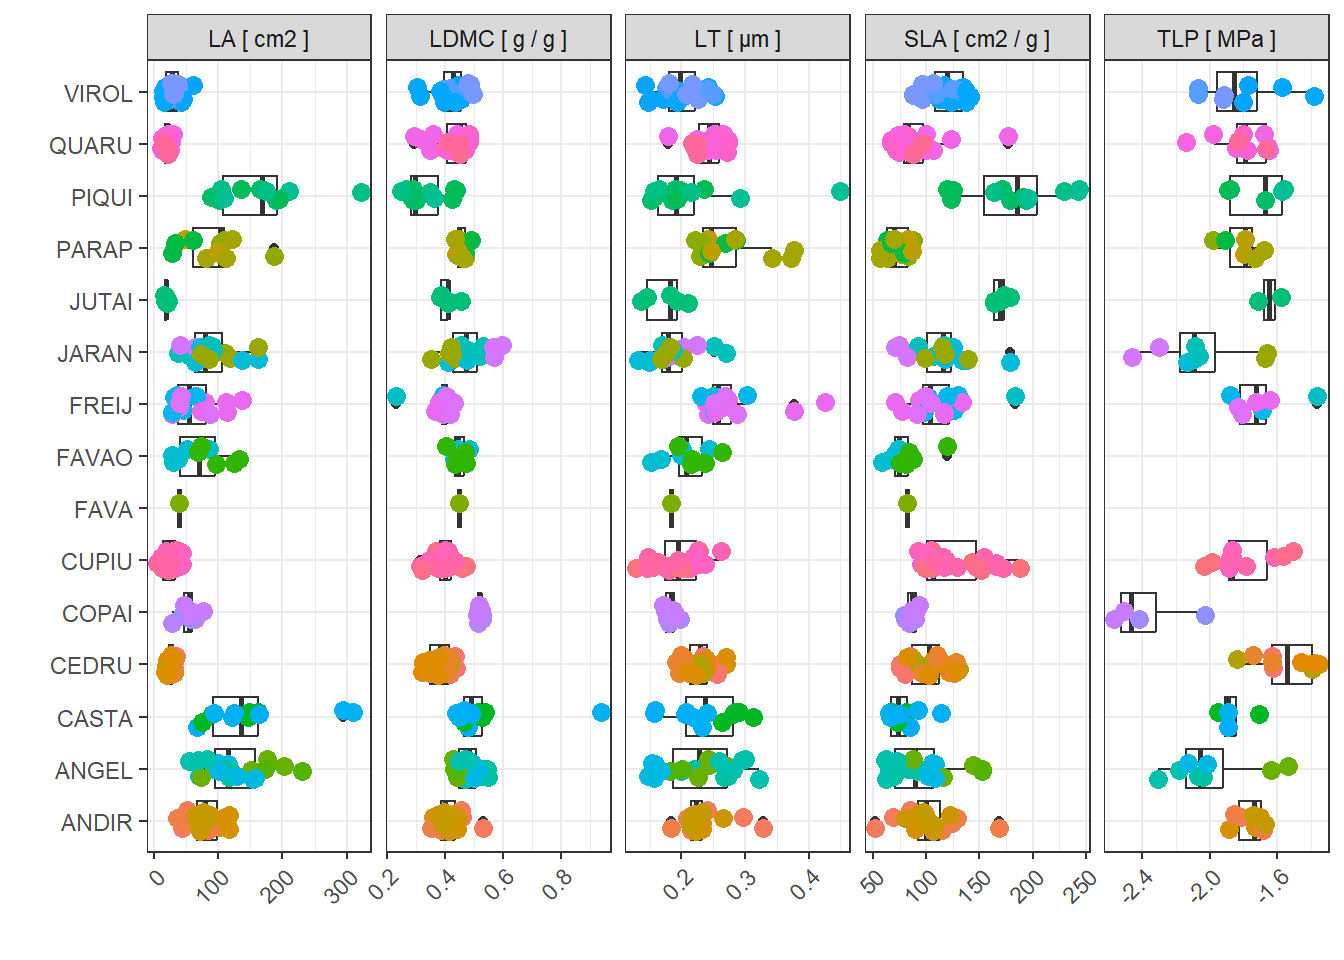
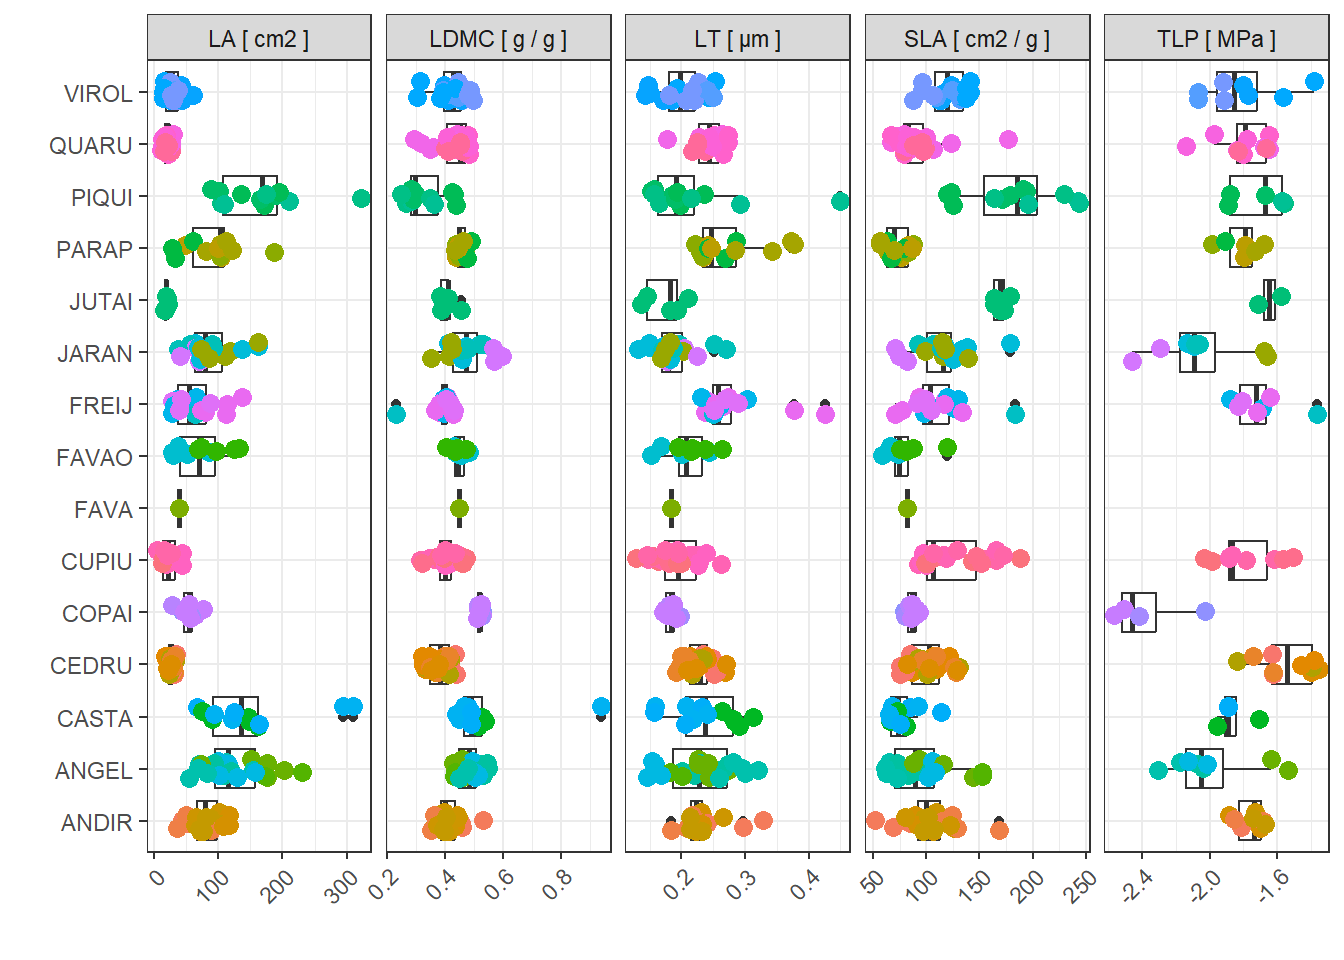
render

diff --git a/docs/25_junction.html b/docs/25_junction.html
@@ -1033,9 +1033,6 @@ pre > code.sourceCode > span > a:first-child::before { text-decoration: underlin
 <span id="cb37-10"><a href="#cb37-10" aria-hidden="true" tabindex="-1"></a>  <span class="fu">write_tsv</span>(<span class="st">"outputs/Belterra_2025_traits_comments.tsv"</span>)</span></code></pre></div><button title="Copy to Clipboard" class="code-copy-button"><i class="bi"></i></button></div>
 </details>
 </div>
-<blockquote class="blockquote">
-<p>Sylvain, please check. The difference between the two is weither the hole correcponding to the punch is counted in the leaf area or not, right? In your code, you took area_excluded for la, but included to calculate sla. But I think it is the opposite (as area_excluded &lt;= included, so area excluded is before filling the holes): we should fill the hole for LA, but not for SLA (as the leaves have been measured after the punch has been made).</p>
-</blockquote>
 </section>
 <section id="exploring-the-effects-of-leaf-quality" class="level2">
 <h2 class="anchored" data-anchor-id="exploring-the-effects-of-leaf-quality">Exploring the effects of leaf quality</h2>
@@ -1169,10 +1166,10 @@ pre > code.sourceCode > span > a:first-child::before { text-decoration: underlin
 </div>
 <p><em>abs_area</em> and <em>fol_touch</em> should be solved by taking the unfilled mask (see scans section). &gt; TO DO: check once it is done if it is better.</p>
 <blockquote class="blockquote">
-<p>DECISION 4: The other abnormality doesn’t seem to affect the values, I suggest to keep these leaves.</p>
+<p>DECISION 4: The other abnormality doesn’t seem to affect the values, I suggest to keep these leaves. Sylvain think we should remove all the leaves with miss_petiolul, miss_petiolul, one_fol.&nbsp;We can remove them for LA, LDMC and SLA and keep them for LT and tlp.</p>
 </blockquote>
 <blockquote class="blockquote">
-<p>DECISION 5: BUT we may want to resample the PIQUI in the future… =&gt; redo all the measurments on PEQUI in the 2026 campaign?</p>
+<p>DECISION 5: BUT we may want to resample the PIQUI in the future… =&gt; redo all the measurments on PEQUI in the 2026 campaign? We just have 2 leaves that are not problematic…</p>
 </blockquote>
 </section>
 <section id="danmaged-and-young-leaves" class="level3">
